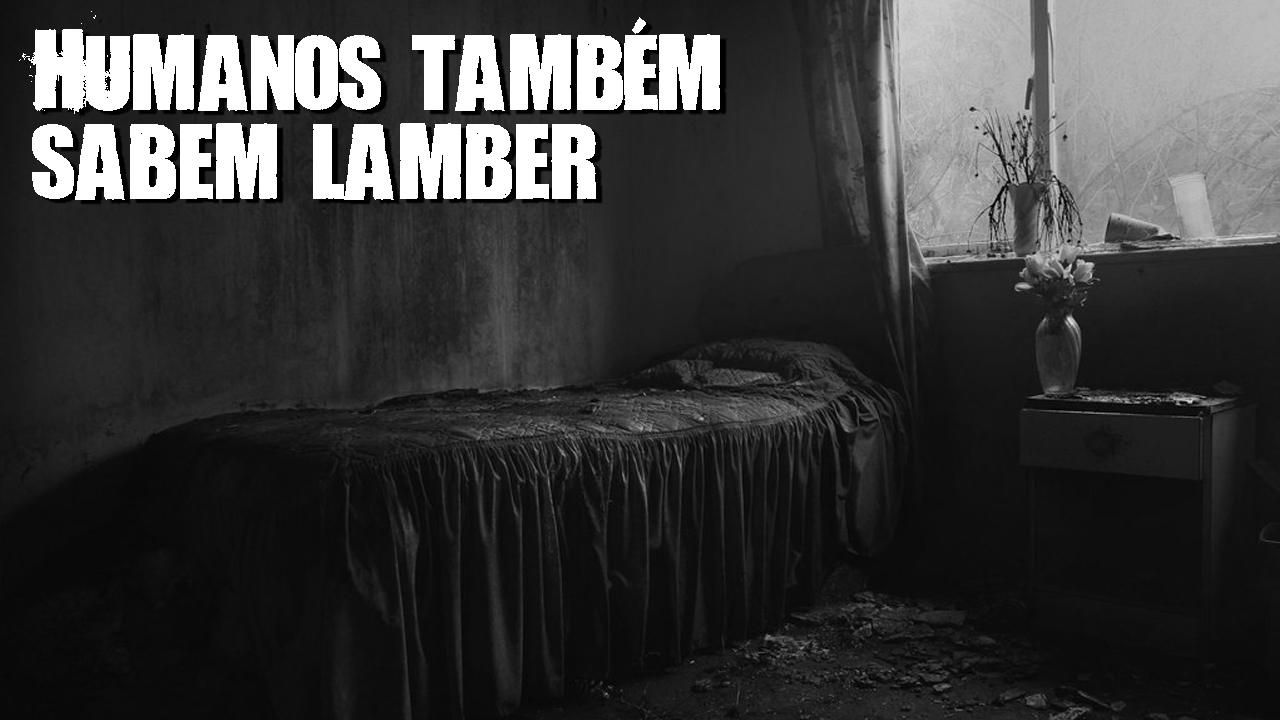
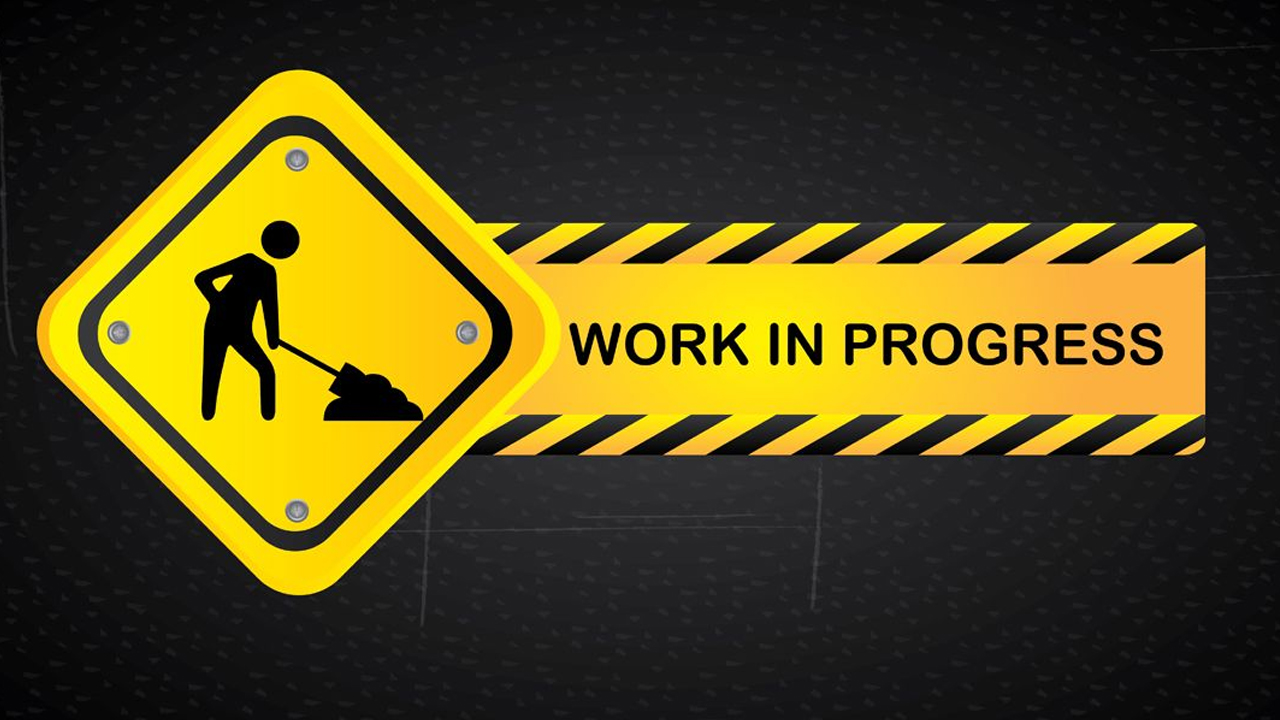
Final Adjustments
+ Detailed texts
- Buttons
- CV Download (yet to be added again)
+ Updated images

diff --git a/index.html b/index.html
@@ -37,12 +37,18 @@
       <h3>Hello, I'm</h3>
       <h1>Guilherme Castellani</h1>
       <h3>And I'm a <span class="multiple-text"></span></h3>
-      <p>Lorem, ipsum dolor sit amet consectetur adipisicing elit. Nobis repudiandae aspernatur voluptate vitae nisi?
-        Aliquam omnis culpa optio, iusto reiciendis nesciunt, quo voluptate cupiditate architecto dolore dicta suscipit.
+      <p>With a keen eye for detail and a focus on user experience, I create modern interfaces, striking visual
+        identities, and engaging video edits. My goal is to turn ideas into creative and functional visual solutions —
+        whether for the web, social media, or institutional projects.
+        <br><br>
+        Here in my portfolio, you’ll find a selection of
+        my most recent work. Feel free to explore, and if you’d like to connect, just reach out!
+
+
       </p>
 
       <div class="social-media">
-        <a href="#" class="btn">Download CV</a>
+        <!-- <a href="#" class="btn">Download CV</a> -->
         <a href="https://www.linkedin.com/in/guicastellani" class='links' target="_blank" rel="noopener noreferrer"><i
             class='bx bxl-linkedin'></i></a>
         <a href="https://www.instagram.com/gui.castellani" class='links' target="_blank" rel="noopener noreferrer"><i
@@ -78,9 +84,18 @@
     <div class="about-content">
       <h2 class="heading">About <span>Me</span></h2>
       <h3>Guilherme Castellani Magri</h3>
-      <p>Lorem ipsum dolor sit amet consectetur adipisicing elit. Alias dolore distinctio amet dolorem possimus. Saepe
-        dolores commodi modi quasi ullam, accusantium laudantium ipsa. Enim nam vitae, sint dolores quos aliquam.</p>
-      <a href="#" class="btn">Read More</a>
+      <p>Since I was a kid, I’ve been passionate about games — not just playing them, but being curious about how they
+        worked, how they were built, and how design and technology came together to create entire worlds. That curiosity
+        grew into a real passion for tech, creativity, and constant learning.
+        <br><br>
+        Today, I work as a web developer, graphic designer, and video editor, combining technical skills with visual
+        storytelling to bring ideas to life. I love diving into new challenges, learning something new with every
+        project, and evolving a little more each day.
+        <br><br>
+        This portfolio is a reflection of that journey — a space where I share some of the things I’ve built, designed,
+        and edited along the way. Feel free to explore, and let’s connect if you’d like to collaborate!
+      </p>
+      <!-- <a href="#" class="btn">Read More</a> -->
     </div>
   </section>
 
@@ -92,28 +107,33 @@
       <div class="services-box">
         <i class='bx bx-code-alt'></i>
         <h3>Web Development</h3>
-        <p>Lorem ipsum dolor, sit amet consectetur adipisicing elit. Rerum eaque adipisci, tenetur corporis sunt
-          doloribus officiis laborum earum ratione, nulla modi eum ipsum eligendi neque recusandae iste consectetur,
-          commodi est.</p>
-        <a href="#" class="btn">Read More</a>
+        <p>Modern, responsive, and functional websites — built to deliver a seamless and engaging user experience.
+        </p>
+        <i class='bx bxl-javascript'></i>
+        <i class='bx bxl-nodejs'></i>
+        <i class='bx bxl-angular'></i>
+        <!-- <a href="#" class="btn">Read More</a> -->
       </div>
 
       <div class="services-box">
         <i class='bx bxs-paint'></i>
         <h3>Graphic Design</h3>
-        <p>Lorem ipsum dolor, sit amet consectetur adipisicing elit. Rerum eaque adipisci, tenetur corporis sunt
-          doloribus officiis laborum earum ratione, nulla modi eum ipsum eligendi neque recusandae iste consectetur,
-          commodi est.</p>
-        <a href="#" class="btn">Read More</a>
+        <p>Unique visual identities, creative layouts, and design solutions that communicate with style and purpose.</p>
+        <i class='bx bxl-adobe'></i>
+        <i class='bx bxl-figma'></i>
+        <i class='bx bxs-image'></i>
+        <!-- <a href="#" class="btn">Read More</a> -->
       </div>
 
       <div class="services-box">
         <i class='bx bx-slideshow'></i>
         <h3>Video Editing</h3>
-        <p>Lorem ipsum dolor, sit amet consectetur adipisicing elit. Rerum eaque adipisci, tenetur corporis sunt
-          doloribus officiis laborum earum ratione, nulla modi eum ipsum eligendi neque recusandae iste consectetur,
-          commodi est.</p>
-        <a href="#" class="btn">Read More</a>
+        <p>Dynamic and engaging edits with rhythm, storytelling, and visual impact that capture your audience’s
+          attention.</p>
+        <i class='bx bxs-microphone'></i>
+        <i class='bx bxl-adobe'></i>
+        <i class='bx bx-video-recording'></i>
+        <!-- <a href="#" class="btn">Read More</a> -->
       </div>
 
     </div>
@@ -127,27 +147,30 @@
       <div class="portfolio-box">
         <img src="./images/portfolio1.jpg" alt="">
         <div class="portfolio-layer">
-          <h4>Frontend Development</h4>
-          <p>Lorem ipsum dolor sit amet consectetur adipisicing elit. Suscipit, laudantium.</p>
-          <a href="#"><i class='bx bx-link-external'></i></a>
+          <h4>Graphic Design</h4>
+          <p>Dark, elegant visuals inspired by League of Legends, designed to enhance the competitive and immersive
+            style of the Lust channel.</p>
+          <!-- <a href="#"><i class='bx bx-link-external'></i></a> -->
         </div>
       </div>
 
       <div class="portfolio-box">
         <img src="./images/portfolio2.jpg" alt="">
         <div class="portfolio-layer">
-          <h4>Frontend Development</h4>
-          <p>Lorem ipsum dolor sit amet consectetur adipisicing elit. Suscipit, laudantium.</p>
-          <a href="#"><i class='bx bx-link-external'></i></a>
+          <h4>Graphic Design</h4>
+          <p>A bold, alternative design with LoL-inspired aesthetics, blending Morgana’s dark essence with the creator’s
+            unique style.</p>
+          <!-- <a href="#"><i class='bx bx-link-external'></i></a> -->
         </div>
       </div>
 
       <div class="portfolio-box">
         <img src="./images/portfolio3.jpg" alt="">
         <div class="portfolio-layer">
-          <h4>Frontend Development</h4>
-          <p>Lorem ipsum dolor sit amet consectetur adipisicing elit. Suscipit, laudantium.</p>
-          <a href="#"><i class='bx bx-link-external'></i></a>
+          <h4>Graphic Design</h4>
+          <p>An intense and atmospheric identity for Tenebris, a channel focused on horror and suspense. Visuals crafted
+            to build mystery and draw in the curious viewer.</p>
+          <!-- <a href="#"><i class='bx bx-link-external'></i></a> -->
         </div>
       </div>
 
@@ -155,17 +178,19 @@
         <img src="./images/portfolio4.jpg" alt="">
         <div class="portfolio-layer">
           <h4>Frontend Development</h4>
-          <p>Lorem ipsum dolor sit amet consectetur adipisicing elit. Suscipit, laudantium.</p>
-          <a href="#"><i class='bx bx-link-external'></i></a>
+          <p>A clean, responsive web app for generating secure passwords with customizable length and complexity — built
+            for simplicity and efficiency.</p>
+          <!-- <a href="#"><i class='bx bx-link-external'></i></a> -->
         </div>
       </div>
 
       <div class="portfolio-box">
         <img src="./images/portfolio5.jpg" alt="">
         <div class="portfolio-layer">
-          <h4>Frontend Development</h4>
-          <p>Lorem ipsum dolor sit amet consectetur adipisicing elit. Suscipit, laudantium.</p>
-          <a href="#"><i class='bx bx-link-external'></i></a>
+          <h4>Graphic Design</h4>
+          <p>An eye-catching horror thumbnail designed with dramatic contrast and eerie visuals to instantly
+            grab attention in the feed.</p>
+          <!-- <a href="#"><i class='bx bx-link-external'></i></a> -->
         </div>
       </div>
 
@@ -173,8 +198,9 @@
         <img src="./images/portfolio6.jpg" alt="">
         <div class="portfolio-layer">
           <h4>Frontend Development</h4>
-          <p>Lorem ipsum dolor sit amet consectetur adipisicing elit. Suscipit, laudantium.</p>
-          <a href="#"><i class='bx bx-link-external'></i></a>
+          <p>A modern and user-friendly real estate website layout focused on intuitive navigation, clear property
+            displays, and smooth user experience.</p>
+          <!-- <a href="#"><i class='bx bx-link-external'></i></a> -->
         </div>
       </div>
     </div>

diff --git a/styles/style.css b/styles/style.css
@@ -340,7 +340,7 @@ span {
 
 .portfolio-box:hover img {
   transform: scale(1.1);
-  opacity: 0.05;
+  opacity: 0.1;
 }
 
 .portfolio-box .portfolio-layer {
@@ -570,7 +570,7 @@ span {
 
   @media (max-width: 450px) {
     html {
-      font-size: 50%;
+      font-size: 55%;
     }
 
     .contact form .input-box input {
